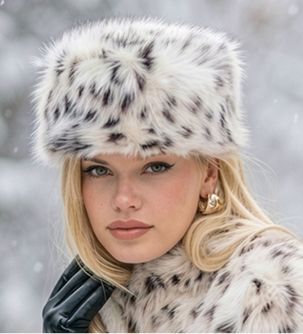
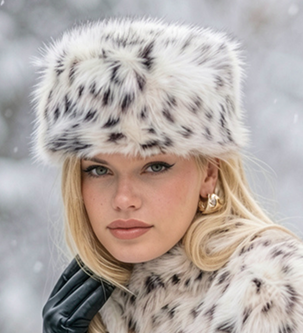
маргины

diff --git a/style.css b/style.css
@@ -43,8 +43,8 @@ body {
 
 .container {
     max-width: 1000px;
-    margin: 0 auto;
-    padding: 0 30px;
+    margin:0 auto;
+    padding:0 30px;
 }
 
 /*  HEADER */
@@ -113,7 +113,7 @@ body {
 
 .cart {
     margin-left: auto;
-    padding-bottom: 7px;
+    margin-bottom: 7px;
 }
 
 .cart img {
@@ -151,18 +151,17 @@ body {
 }
 
 .hero h1 {
-    margin-bottom:40px;
+    margin-bottom:59px;
     max-width: 60%;
-    padding: 15px 0px;
     font-family: "Kudry", serif;
     font-size: 107px;
     font-weight: 400;
-    line-height: 0.97;
+    line-height: 0.94;
     letter-spacing: 3%;
 }
 
 .aboutcollection {
-    padding: 30px 0;
+    margin: 30px -2px;
 }
 
 .aboutcollection p {
@@ -175,7 +174,8 @@ body {
 
 .collection {
     position: relative;
-    padding: 56px 0;
+    margin-top: 86px;
+    margin-bottom: 76px;
     overflow: hidden;
 }
 
@@ -207,16 +207,16 @@ body {
 
 .collection-header h2 {
     font-family: "RussischeElsevier", serif;
-    font-size: 50px;
-    letter-spacing: 5%;
+    font-size: 51px;
+    letter-spacing: 2px;
     font-weight: 400;
 }
 
 .collection-header p {
-    padding-top: 2px;
+    margin-top: 2px;
     width: 60%;
     font-size: 16px;
-    line-height: 1.4;
+    line-height: 1.40;
 }
 
 /* PRODUCTS */
@@ -224,18 +224,18 @@ body {
 .products {
     display: grid;
     grid-template-columns: 2fr 1fr;
-    max-width: 1000px;
+    max-width: 940px;
     gap: 16px;
     align-items: stretch;
-    padding: 0px 0px;
 }
 
 /* правая колонка */
 
 .products-right {
+    width: 100%;
     display: flex;
     flex-direction: column;
-    gap: 20px;
+    gap: 16px;
 }
 
 .product-card {
@@ -251,22 +251,24 @@ body {
 }
 
 .product-card img {
-    width: 100%;
-    height: 100%;
+    width:100%;
+    height:auto;
     display: block;
     object-fit: cover;
 }
 
 .card-title {
     font-family: "baskervillebold", serif;
-    font-size: 20px;
+    font-size: 21px;
     font-weight: 400;
     color: #587495;
     width: fit-content;
     border-bottom: 0.1px solid #587495;
+    margin-top: 0px;
 }
 
 .product-card p {
+    margin-top: 2px;
     font-size: 16px;
 }
 
@@ -283,9 +285,9 @@ body {
     flex-direction: column;
 }
 
-/* .product-card--large a {
+.product-card--large a {
     flex: 1;
-}*/
+}
 
 .product-card--large img {
     width: 100%;
@@ -296,7 +298,7 @@ body {
 /* FOOTER */
 
 .footer {
-    padding: 27px 0;
+    margin: 76px 0;
 }
 
 .footer-content {
@@ -406,7 +408,6 @@ body {
 
 .product-card h3 {
     font-size: 16px;
-
 }
 
 .product-card p {
@@ -420,7 +421,7 @@ body {
 
 .footer-content{
     flex-direction:column;
-    gap:50px;
+    gap:20px;
 }
 
 .footer-columns{
@@ -465,7 +466,7 @@ body {
 }
 
 .aboutcollection {
-    padding: 30px 0;
+    margin: 15px -2px;
 }
 
 .aboutcollection p {
@@ -474,7 +475,7 @@ body {
 }
 
 .collection{
-    padding:60px 0;
+    margin-bottom: 15px;
 }
 
 .collection-header h2{

diff --git a/index.html b/index.html
@@ -118,7 +118,7 @@
                             alt="Боярка Тата">
                             <div class="product-card__info">
                                 <h3 class="card-title">Тата</h3>
-                                <p>Боярка из меха соболя</p>
+                                <p>Боярка из меха рыжего соболя</p>
                                 <span>25 000 ₽</span>
                             </div>
                         </article>
